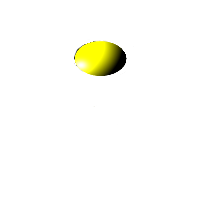
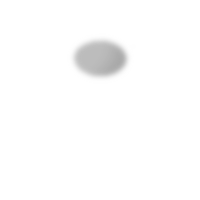
basic gameplay themability

Changed region(s): [[0.36, 0.18, 0.66, 0.39]]

diff --git a/src/scnSetTheme.cc b/src/scnSetTheme.cc
@@ -19,6 +19,7 @@ GNU General Public License for more details.
 #include "message.h"
 #include "verbosity.h"
 #include "stage.h"
+#include "playGfx.h"
 #include "font.h"
 #include "texManager.h"
 #include "fileio.h"
@@ -59,6 +60,7 @@ void tScnSetTheme::init()
 	themesSlist=listDirContents(datadir+"/st_slist",3);
 	themesSopts=listDirContents(datadir+"/st_sopts",3);
 	themesSettm=listDirContents(datadir+"/st_settm",3);
+	themesPlay=listDirContents(datadir+"/playgfx",3);
 	additem(new tSIlist("Neck",themeNecknames,&themeNeckidx));
 	additem(new tSIlist("Stage",themeStages,&themeStage));
 	additem(new tSIlist("Main Menu"    ,themesMainm,&themeMainm));
@@ -66,6 +68,7 @@ void tScnSetTheme::init()
 	additem(new tSIlist("Song Options" ,themesSopts,&themeSopts));
 	additem(new tSIlist("Score Screen" ,themesScore,&themeScore));
 	additem(new tSIlist("Settings Menu",themesSettm,&themeSettm));
+	additem(new tSIlist("Gameplay Elements",themesPlay,&themePlay));
 	additem(new tSIintrange("Neck transparency",0,90,&themeNecktransparency,10));
 	tScnSetBase::init();
 }
@@ -82,27 +85,31 @@ void tScnSetTheme::itemAdjusted(int i)
 		break;
 	case 1:
 		stagePlay->cleanup();
-		stagePlay->readDir(datadir+"/stages/"+themeStage);
+		stagePlay->load(datadir+"/stages/"+themeStage);
 		break;
 	case 2:
 		st_mainm->cleanup();
-		st_mainm->readDir(datadir+"/st_mainm/"+themeMainm);
+		st_mainm->load(datadir+"/st_mainm/"+themeMainm);
 		break;
 	case 3:
 		st_slist->cleanup();
-		st_slist->readDir(datadir+"/st_slist/"+themeSlist);
+		st_slist->load(datadir+"/st_slist/"+themeSlist);
 		break;
 	case 4:
 		st_sopts->cleanup();
-		st_sopts->readDir(datadir+"/st_sopts/"+themeSopts);
+		st_sopts->load(datadir+"/st_sopts/"+themeSopts);
 		break;
 	case 5:
 		st_score->cleanup();
-		st_score->readDir(datadir+"/st_score/"+themeScore);
+		st_score->load(datadir+"/st_score/"+themeScore);
 		break;
 	case 6:
 		st_settm->cleanup();
-		st_settm->readDir(datadir+"/st_settm/"+themeSettm);
+		st_settm->load(datadir+"/st_settm/"+themeSettm);
+		break;
+	case 7:
+		playgfx->cleanup();
+		playgfx->load(datadir+"/playgfx/"+themePlay);
 		break;
 	}
 }

diff --git a/src/verbosity.h b/src/verbosity.h
@@ -25,12 +25,14 @@ const int MSG_SONG        = LEV_INFO   ;
 const int MSG_AUDIOFILE   = LEV_INFO   ;
 
 const int MSG_SONGDB      = LEV_DBG    ;
+const int MSG_TAPPABLE    = LEV_DBG    ;
+const int MSG_THEME       = LEV_DBG    ;
 const int MSG_FONT        = LEV_DBG    ;
 const int MSG_READMID     = LEV_QUIET  ;
 const int MSG_MIDI        = LEV_INFO   ;
 const int MSG_MIDIDUMP    = LEV_INFO   ;
 const int MSG_SPRITES     = LEV_INFO   ;
-const int MSG_SETSCENE   = LEV_DBG    ;
+const int MSG_SETSCENE    = LEV_DBG    ;
 const int MSG_SCNGUITAR   = LEV_DBG    ;
 const int MSG_SCNSONGOPT  = LEV_INFO   ;
 const int MSG_GL          = LEV_INFO   ;
@@ -40,7 +42,7 @@ const int MSG_SCORES      = LEV_DBG    ;
 const int MSG_CONFIG      = LEV_DBG    ;
 const int MSG_STAGE       = LEV_DBG    ;
 const int MSG_PNGREAD     = LEV_DBG    ;
-const int MSG_TEXMAN     = LEV_INFO   ;
+const int MSG_TEXMAN      = LEV_INFO   ;
 
 #define INFO(tgt,...)    __COND_DBG_OUT(MSG_##tgt >= MSG_BIAS+LEV_INFO,__VA_ARGS__)
 #define WARN(tgt,...)    __COND_DBG_OUT(MSG_##tgt >= MSG_BIAS+LEV_WARN,__VA_ARGS__)

diff --git a/src/sgNotes.cc b/src/sgNotes.cc
@@ -16,6 +16,7 @@ GNU General Public License for more details.
 // for the tSceneGuitar class declared in scnGuitar.h
 
 #include "scnGuitar.h"
+#include "playGfx.h"
 #include "midiparser.h"
 #include "globals.h"
 #include "configuration.h"
@@ -68,7 +69,17 @@ int tSceneGuitar::renderNote(int col, int ts, int flags)
 	glTranslatef(col-2,y,0);
 	glRotatef(60,1,0,0);
 	glScalef(sz,sz,sz);
-	texDraw(sp_note[col]);
+	texDraw(playgfx->note[col]);
+	if (playgfx->notehl[col] && (flags & ENS_TAPPABLE))
+	{
+		// not nice that I hardcoded this, maybe it would be better
+		// to defer it to the layer for display, this way we can also
+		// apply effects
+		glColor4f(1.0,1.0,1.0,1.0);
+		glBlendFunc(GL_SRC_ALPHA, GL_ONE);
+		texDraw(playgfx->notehl[col]);
+		glBlendFunc(GL_SRC_ALPHA, GL_ONE_MINUS_SRC_ALPHA);
+	}
 	glPopMatrix();
 	return 0;
 }
@@ -185,7 +196,7 @@ void tSceneGuitar::renderNotes()
 			res=2;
 			if (ch=='O' || ch=='B')
 			{
-				res=renderNote(j,v.timestamp);
+				res=renderNote(j,v.timestamp,v.flags);
 			}
 			if (res) ch='!';
 		//	MESSAGE("%c" &ch);

diff --git a/src/game.cc b/src/game.cc
@@ -34,6 +34,7 @@ GNU General Public License for more details.
 #include "score.h"
 #include "keyboard.h"
 #include "stage.h"
+#include "playGfx.h"
 
 void drawglstuff()
 {
@@ -77,13 +78,15 @@ int main( int argc, char* argv[] )
 	st_slist =new Stage();
 	st_score =new Stage();
 	st_settm =new Stage();
+	playgfx  =new playGfx();
 
-	stagePlay->readDir(datadir+"/stages/"+themeStage);
-	st_mainm ->readDir(datadir+"/st_mainm/"+themeMainm);
-	st_sopts ->readDir(datadir+"/st_sopts/"+themeSopts);
-	st_slist ->readDir(datadir+"/st_slist/"+themeSlist);
-	st_score ->readDir(datadir+"/st_score/"+themeScore);
-	st_settm ->readDir(datadir+"/st_settm/"+themeScore);
+	stagePlay->load(datadir+"/stages/"+themeStage);
+	st_mainm ->load(datadir+"/st_mainm/"+themeMainm);
+	st_sopts ->load(datadir+"/st_sopts/"+themeSopts);
+	st_slist ->load(datadir+"/st_slist/"+themeSlist);
+	st_score ->load(datadir+"/st_score/"+themeScore);
+	st_settm ->load(datadir+"/st_settm/"+themeScore);
+	playgfx  ->load(datadir+"/playgfx/"+themePlay);
 
 	init_audio();
 	load_all_sfx();

diff --git a/src/configuration.h b/src/configuration.h
@@ -37,6 +37,7 @@ extern int themeNeckidx;
 extern vstring themeNecknames;
 extern vstring themeNeckfilenames;
 extern vstring themeStages;
+extern vstring themesPlay;
 extern vstring themesMainm;
 extern vstring themesScore;
 extern vstring themesSlist;
@@ -78,6 +79,7 @@ CONFIGITEM(string,themeScore,"default")         /* theme - score scene    */  \
 CONFIGITEM(string,themeSlist,"default")         /* theme - song list      */  \
 CONFIGITEM(string,themeSopts,"default")         /* theme - song options   */  \
 CONFIGITEM(string,themeSettm,"default")         /* theme - settings scene */  \
+CONFIGITEM(string,themePlay,"default")          /* theme - gameplay elements */  \
 CONFIGITEM(string,themeNeckname,"Default")      /* theme - neck name      */  \
 CONFIGITEM(int,themeNecktransparency,0)         /* theme - neck alpha     */  \
 CONFIGITEM(GLfloat,neckpos_extend,0)            /* neck - extend          */  \

diff --git a/src/playGfx.cc b/src/playGfx.cc
@@ -1,0 +1,25 @@
+#include "globals.h"
+#include "playGfx.h"
+#include "verbosity.h"
+#include "message.h"
+
+void playGfx::load(string dir, string filename)
+{
+	INFO(THEME,"Loading gameplay elements: %s %s\n",dir,filename);
+	Stage::load(dir,filename);
+	note[0]=findLayer("note0")->texid;
+	note[1]=findLayer("note1")->texid;
+	note[2]=findLayer("note2")->texid;
+	note[3]=findLayer("note3")->texid;
+	note[4]=findLayer("note4")->texid;
+	notehl[0]=findLayer("notehl0")->texid;
+	notehl[1]=findLayer("notehl1")->texid;
+	notehl[2]=findLayer("notehl2")->texid;
+	notehl[3]=findLayer("notehl3")->texid;
+	notehl[4]=findLayer("notehl4")->texid;
+	key[0]=findLayer("key0")->texid;
+	key[1]=findLayer("key1")->texid;
+	key[2]=findLayer("key2")->texid;
+	key[3]=findLayer("key3")->texid;
+	key[4]=findLayer("key4")->texid;
+}

diff --git a/src/stage.cc b/src/stage.cc
@@ -92,14 +92,14 @@ StageLayerFx *Stage::findFX(StageLayer *base, string name)
 }
 
 
-void Stage::readDir(string d)
+void Stage::load(string dir, string filename)
 {
 	char line[1024];
 	int mode=0;
 	int i;
 	StageLayer *crtl=NULL;
 	StageLayerFx *crtf=NULL;
-	FILE *fc=fopen((d+"/stage.ini").c_str(),"r");
+	FILE *fc=fopen((dir+"/"+filename).c_str(),"r");
 	if (!fc) return;
 
 	while (!feof(fc))
@@ -146,7 +146,7 @@ void Stage::readDir(string d)
 		if (pos!=string::npos)
 			txname.replace(pos,4,".png");
 		else if (txname[0]=='/') layer[i]->texid=texLoad(txname.substr(1,999));
-		else layer[i]->texid=texLoad(d+"/"+txname,1);
+		else layer[i]->texid=texLoad(dir+"/"+txname,1);
 
 		layer[i]->lv_yscale=layer[i]->lv_yscale*texAspect(layer[i]->texid);
 		layer[i]->lv_yscale*=layer[i]->lv_scale;

diff --git a/src/playGfx.h b/src/playGfx.h
@@ -1,0 +1,26 @@
+#ifndef __HDR_playGfx_h
+#define __HDR_stagGfx_h
+
+#include "stage.h"
+
+/**
+ * Playgfx is a container for the gameplay elements
+ * it uses Stage for settings loading, but it offers some shortcuts
+ * to its contents
+ */
+class playGfx:public Stage
+{
+public:
+	/**
+	 * calls the normal load, but afterwards uploads the texids
+	 * of the notes and other elements in arrays where they can be
+	 * easily accessed
+	 */
+	void load(string dir, string filename="stage.ini");
+	int note[5];
+	int notehl[5];
+	int key[5];
+};
+
+#endif
+

diff --git a/src/sprites.cc b/src/sprites.cc
@@ -25,8 +25,6 @@ int sp_neck;
 int sp_ball;
 int sp_flame;
 int sp_glow;
-int sp_key[5];
-int sp_note[5];
 int sp_hitg1, sp_hitg2;
 int sp_hitf1, sp_hitf2;
 int sp_noteline, sp_thinline;
@@ -124,14 +122,6 @@ void init_sprites()
 	sp_guitar[7] = texLoad("guitar4gs.png");
 	sp_star1     = texLoad("star1.png");
 	sp_star2     = texLoad("star2.png");
-	for (i=0; i<5; i++)
-	{
-		char a[32];
-		sprintf(a,"key%d.png",i+1);
-		sp_key[i]  = texLoad(a);
-		sprintf(a,"note0%d.png",i+1);
-		sp_note[i] = texLoad(a);
-	}
 }
 
 void sprite::release()

diff --git a/src/sgKeys.cc b/src/sgKeys.cc
@@ -20,6 +20,7 @@ GNU General Public License for more details.
 #include "texManager.h"
 #include "tappable.h"
 #include "player.h"
+#include "playGfx.h"
 
 void tSceneGuitar::renderKey(int col, int flags)
 {
@@ -42,7 +43,7 @@ void tSceneGuitar::renderKey(int col, int flags)
 	glTranslatef(col-2,notePos(-1),yy);
 	glRotatef(60,1,0,0);
 	glScalef(sz,sz,1);
-	texDraw(sp_key[col]);
+	texDraw(playgfx->key[col]);
 	glPopMatrix();
 }
 

diff --git a/src/scnSetBase.h b/src/scnSetBase.h
@@ -54,8 +54,12 @@ struct tSIlist:public tSettingsItem
 		tSettingsItem(v,TYP_RANGE),choices(cv),val(vv),sval(&locsval)
 		{
 			if (!cv.size()) choices.push_back("");
-			if (!vv) val=&locval; capval();
-			*val=0;
+			if (!vv)
+			{
+				val=&locval;
+				*val=0;
+			}
+			capval();
 		}
 	tSIlist(string v, vector<string> cv,string *vv):
 		tSettingsItem(v,TYP_RANGE),choices(cv),val(&locval),sval(vv)

diff --git a/src/globals.h b/src/globals.h
@@ -20,12 +20,15 @@ extern tSongini   crtIni;
 
 
 class Stage;
+class playGfx;
+
 extern Stage *stagePlay;
 extern Stage *st_mainm;
 extern Stage *st_sopts;
 extern Stage *st_slist;
 extern Stage *st_score;
 extern Stage *st_settm;
+extern playGfx *playgfx;
 
 extern mcolor C_WHITE;
 extern mcolor C_BLACK;
